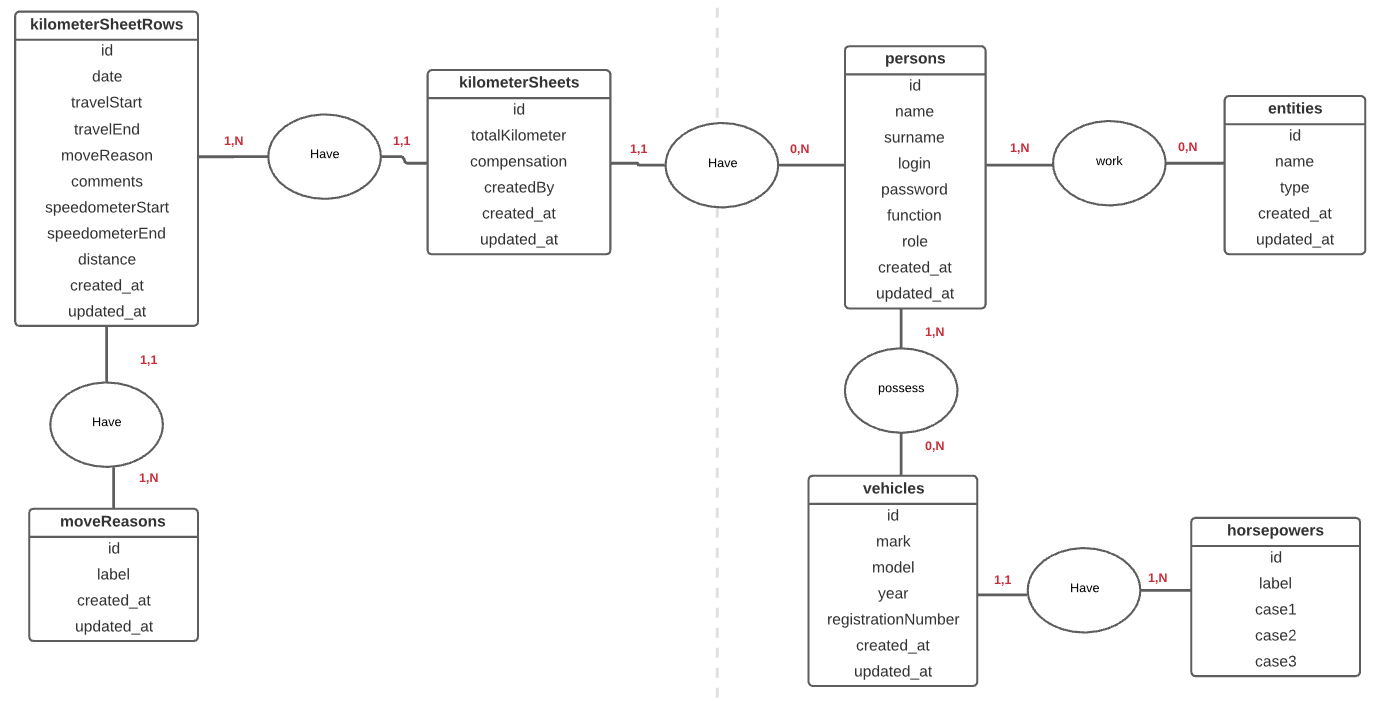
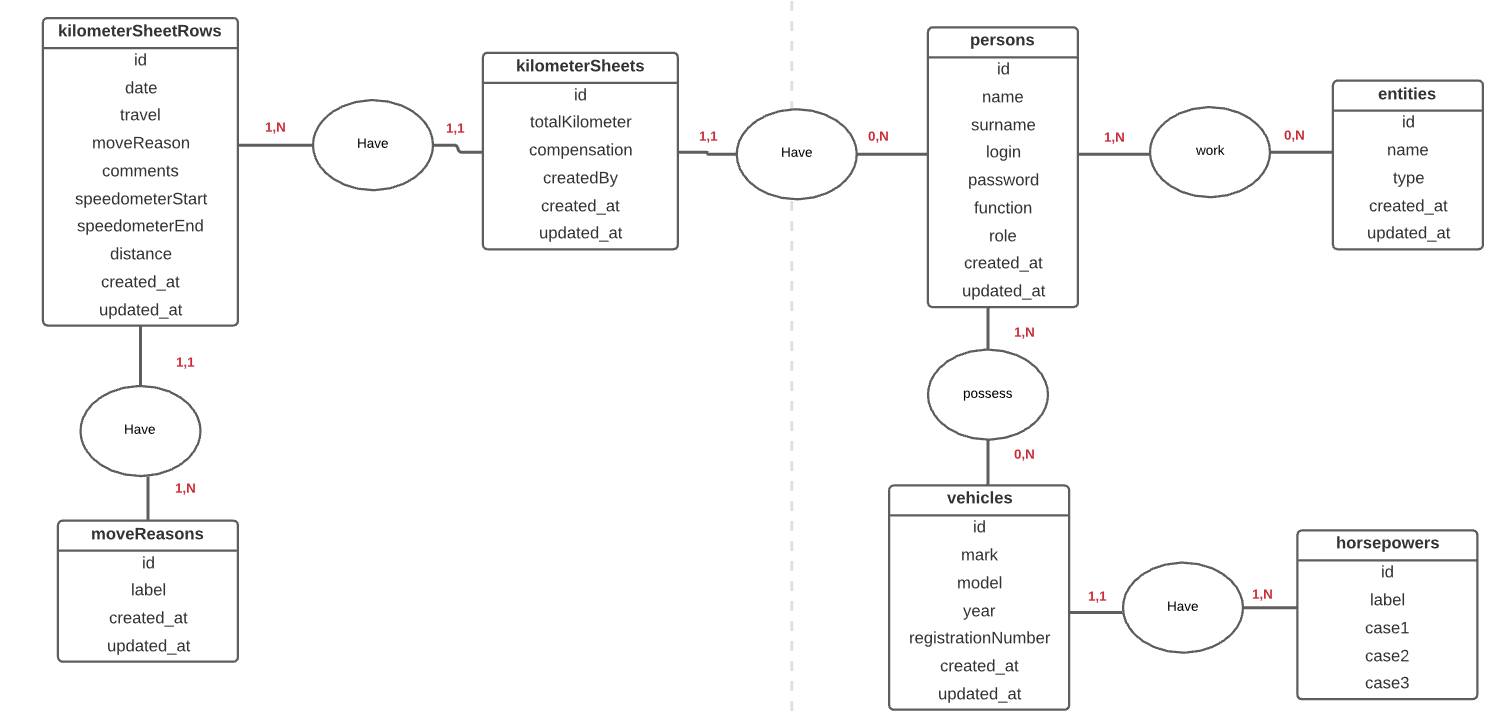
rework : Adjust kilometersheetrow's model

diff --git a/controllers/kilometersController.js b/controllers/kilometersController.js
@@ -93,9 +93,16 @@ exports.getUpdateKilometerSheets = async (req, res, next) => {
             include: [ Horsepowers ] 
         });
 
+        const kilometerSheetRowsInfo = await KilometerSheetRows.findAll({
+            where: { kilometerSheetId: id},
+            include: [MoveReasons]
+        });
+
         res.render('kilometersheets/update', {
             backgroundColor: "bg-lightblue-color",
-            kilometerSheetInfo, horsepowersInfo
+            kilometerSheetInfo, 
+            kilometerSheetRowsInfo,
+            horsepowersInfo
         });
     } catch (error) {
         req.flash('error', 'Une erreur est survenue');

diff --git a/models/kilometersheetrows.js b/models/kilometersheetrows.js
@@ -17,11 +17,7 @@ const KilometerSheetsRows = sequelize.define('kilometerSheetsRows', {
         type: DataTypes.DATEONLY,
         allowNull: false
     },
-    travelStart: {
-        type: DataTypes.STRING,
-        allowNull: false
-    },
-    travelEnd: {
+    travel: {
         type: DataTypes.STRING,
         allowNull: false
     },
